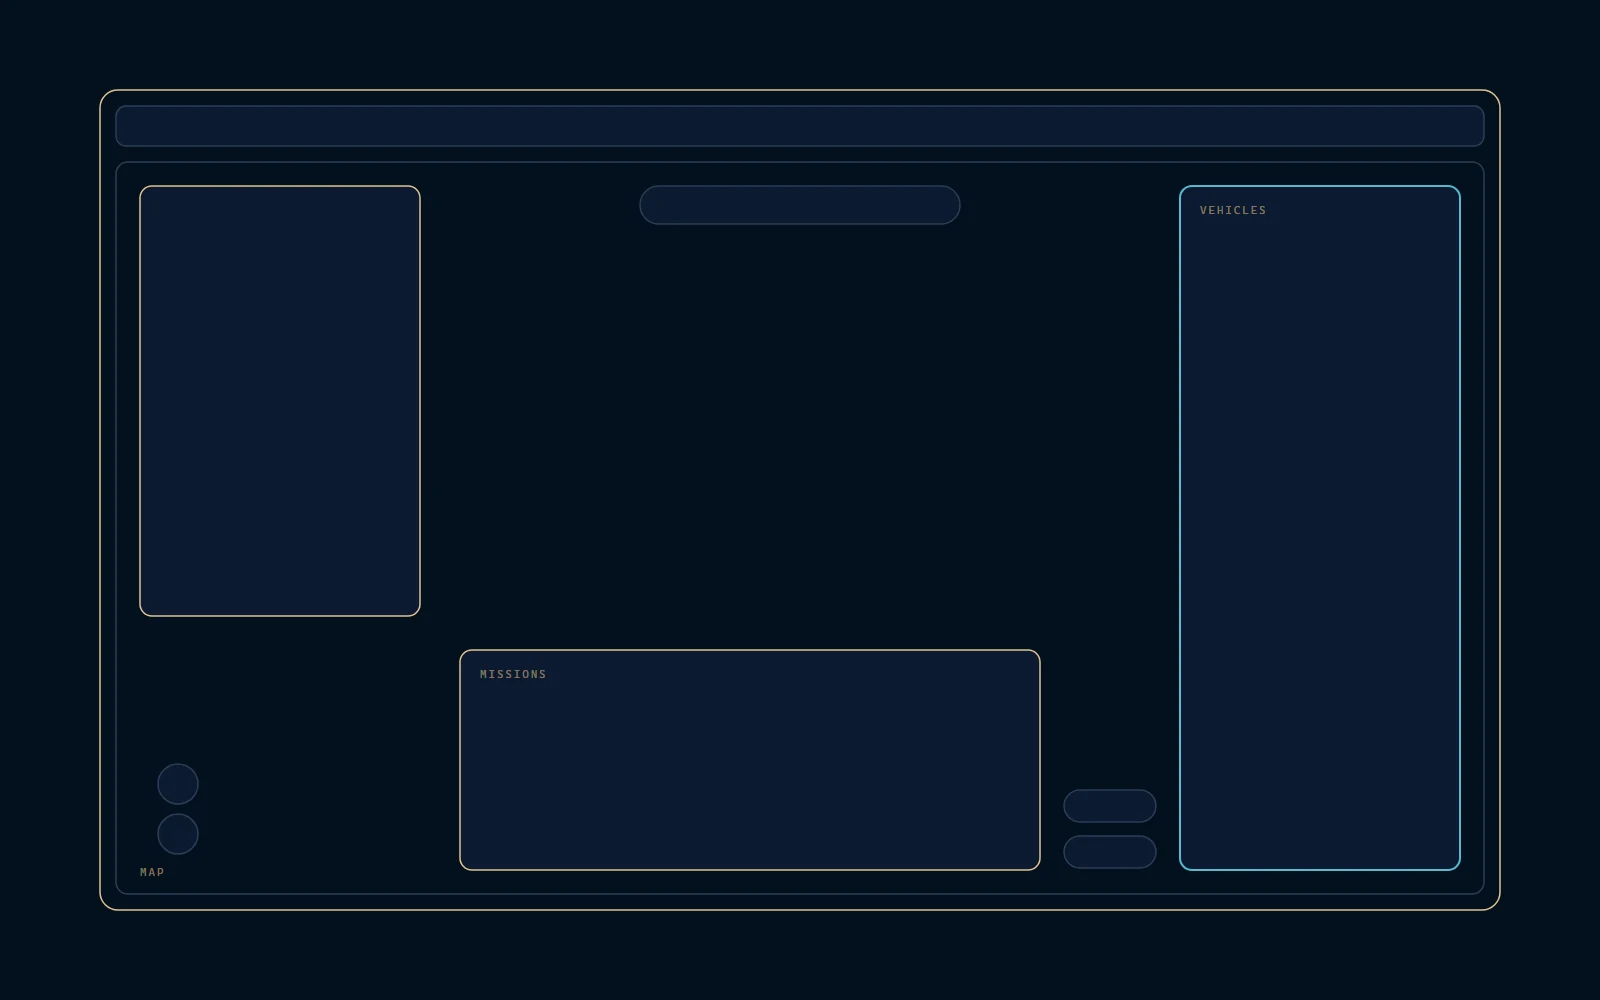
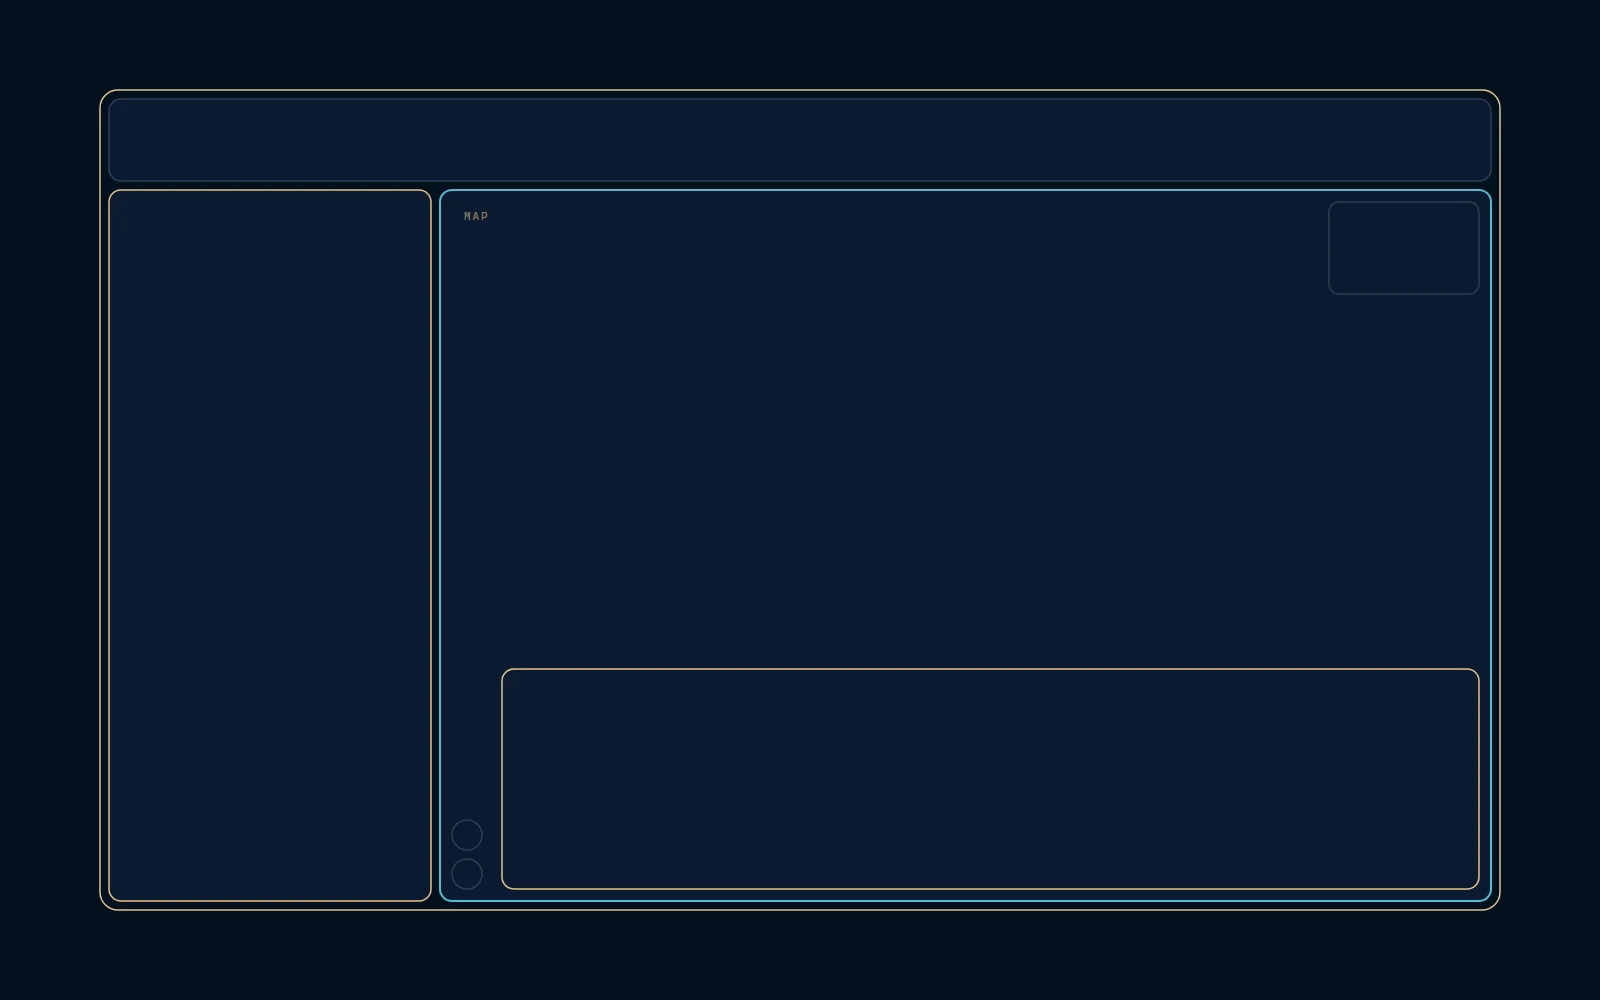
feat: bento layout on the auto-connect page

diff --git a/src/data/projects.js b/src/data/projects.js
@@ -29,11 +29,12 @@ const featured = [
         title: 'Auto-Connect operator interfaces',
         blurb: 'The software that runs driverless vehicles at airports. I built it from the first diagram, as its only engineer.',
         stack: 'Flask, then FastAPI and uv, websockets',
-        year: '2025',
+        year: '2025 to 2026',
         role: 'Software Engineer, Aurrigo',
-        coverAlt: 'Layout sketch of the stand screen since December: the map fills the screen, with floating panels for vehicles and missions.',
+        coverAlt: 'Layout sketch of the stand screen since February: a bento grid with a sidebar, the map and a mission panel.',
         gallery: [
-            'Before: the stand screen until December, with docked lists on both sides of the map.',
+            'The stand screen from December to February: the map fills the screen, with floating panels.',
+            'The stand screen before December, with docked lists on both sides of the map.',
             'Layout sketch of remote supervision: camera tiles, a minimap, alerts and a stop panel.',
             'Sketch of the interaction patterns: a panel that shrinks to a pill, an expanding row, slide to authorise, press and hold.',
         ],
@@ -43,6 +44,7 @@ const featured = [
             'I wrote the first backend in Flask with MySQL, then rebuilt it in FastAPI with uv that September. The four operator screens, for fleet, stand, baggage area and remote supervision, talk to it over websockets.',
             'The tricky part is keeping a busy screen calm, so the thing that needs you right now is the first thing you see.',
             'In December the stand screen went map-first, with its panels floating over the map.',
+            'In February it moved to a bento layout, with the sidebar, the map and the missions each in their own compartment.',
         ],
         links: [],
     },
